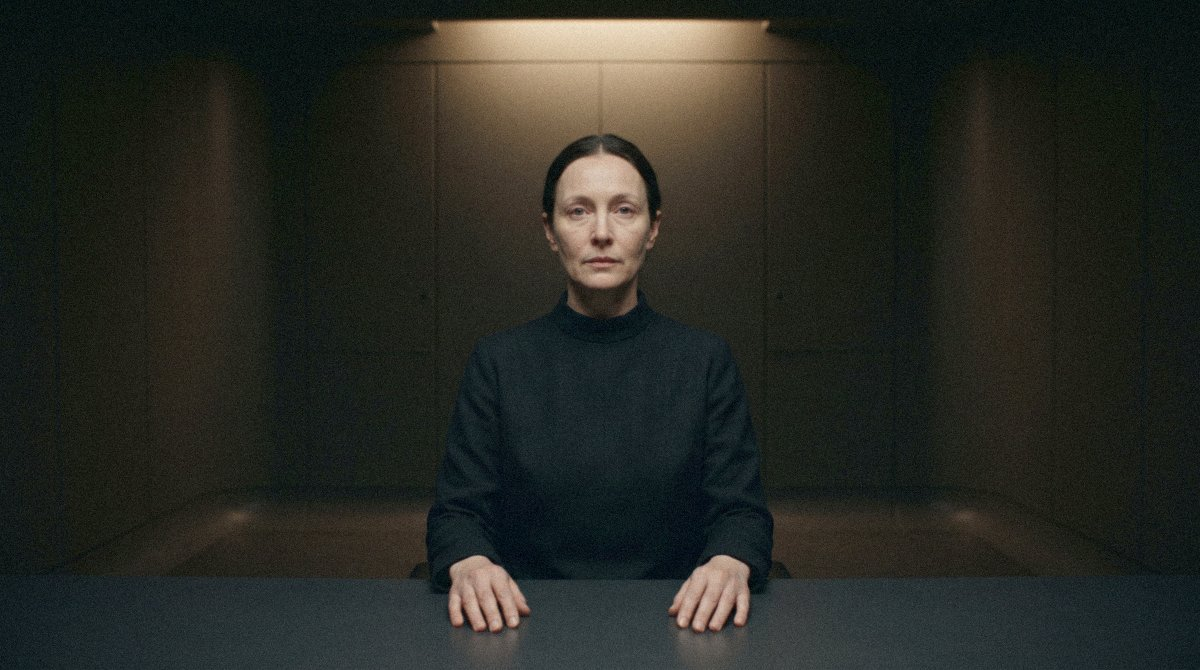
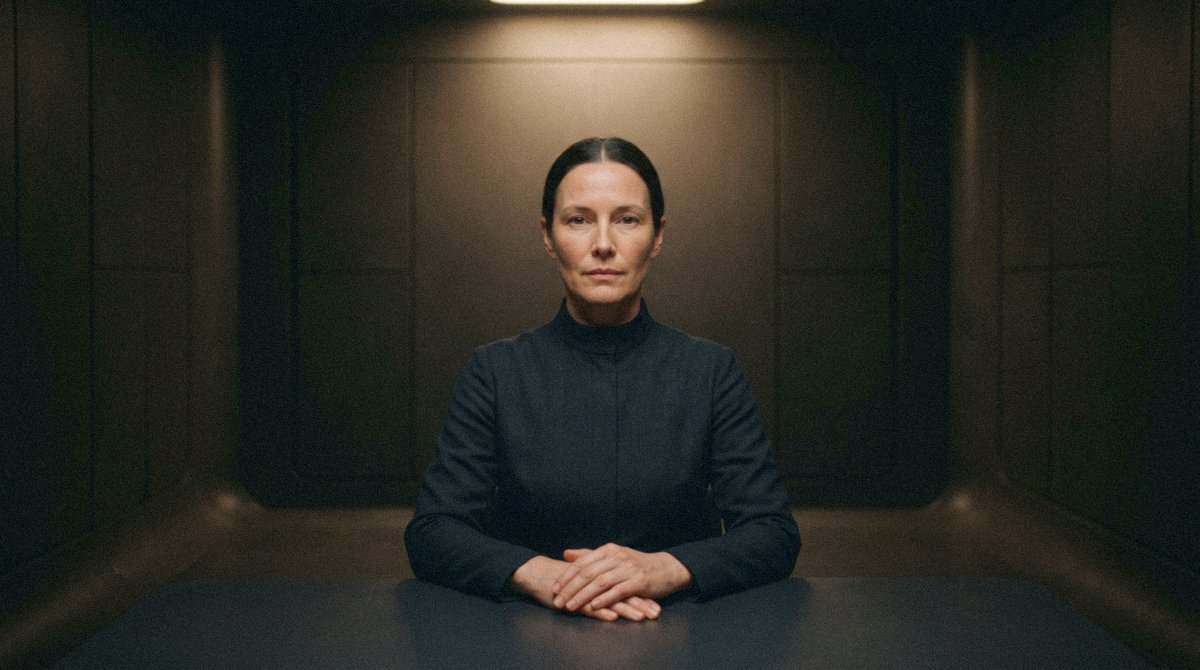
Re-make Rook-7, Syra and General Krast portraits
Rook-7 less childlike, Syra robust rather than frail, Krast of her own
century rather than the 1940s. Dermot picked each variation, 13 Oct 2026.

diff --git a/story-bible/images.md b/story-bible/images.md
@@ -1710,8 +1710,9 @@ go in its bullet prose, never in the quote.)
   stillness and the unplaceable age, and both leaked monitors, lamps and
   cabling into the room — the room is now described as closed and inert, and
   the negative travels inside the prompt.)*
-  > Documentary photograph taken inside the world by a 29th-century camera, available light, 16:9 landscape: a Krenyi woman, a humanoid who at first glance reads as an entirely ordinary human and gives the eye nothing to point to — ordinary ears, ordinary eyes, ordinary skin, no prosthetics and no alien features of any kind. What is not human is the composure: she sits perfectly still in a dim survey analysis room, hands at rest on the table, posture exactly balanced, gaze direct into the viewer, an adult whose age is impossible to place, quietly beautiful without any glamour styling, pale, dark hair drawn plainly back, a plain high-necked garment of matte dark woven cloth with a closure with no visible fastening, no markings. The room around her is almost dark and everything in it is closed and inert — a bare worktable, walls of seamless dark composite meeting the floor in a rounded coving with everything stowed behind flush panels, deep shadow — lit by one soft warm pool of light from a concealed source above, no lamp or light fitting visible in frame, and she is visibly comfortable in the dark. Serene, enigmatic, slightly uncanny in stillness only; not a pointed-eared elf, not a grey alien, no glowing eyes, no unusual skin colour. No readable text, lettering, numerals, signage, labels, branding or written characters of any script anywhere in frame; no screens, monitors, displays, tablets, consoles or indicator lights of any kind, powered or dark; no cables; no holograms or projected light; no wristwatch or jewellery; no hard-shelled cases, flight cases, road cases, equipment cases or crates; no knitted jumper, sweater or sweatshirt; no weapons; no corporate headshot posing. Photographed, not rendered: real skin with pores, fine lines and the slight unevenness of a living face, cloth with a real weave and creases; high-ISO grain heavier in the shadows, a fast lens near wide open with shallow depth of field and slight softness toward the corners, a touch under-exposed, muted natural colour. Render negatives: 3D render, CGI, octane render, video-game render, animated film still, science-fiction film set, plastic sheen, airbrushed, over-smooth surfaces, glossy concept art, waxy skin. Landscape orientation.
+  > Documentary photograph taken inside the world by a 29th-century camera, available light, 16:9 landscape: a Krenyi woman, a humanoid who at first glance reads as an entirely ordinary human and gives the eye nothing to point to — ordinary ears, ordinary eyes, ordinary skin, no prosthetics and no alien features of any kind. What is not human is the composure: she sits perfectly still in a dim survey analysis room, hands at rest on the table, posture exactly balanced, gaze direct into the viewer, an adult whose age is impossible to place, healthy and physically robust, with good colour in her skin and a clear, settled, unlined face that is neither young nor old, square level shoulders and a strong straight back, quietly beautiful without any glamour styling, her expression composed and wholly unreadable with nothing sad, tired or cold in it, pale, dark hair drawn plainly back, a plain well-fitted high-necked garment of matte dark woven cloth with a closure with no visible fastening, no markings. The room around her is almost dark and everything in it is closed and inert — a bare worktable, walls of seamless dark composite meeting the floor in a rounded coving with everything stowed behind flush panels, deep shadow — lit by one soft warm pool of light from a concealed source above, no lamp or light fitting visible in frame, and she is visibly comfortable in the dark. Serene, enigmatic, slightly uncanny in stillness only; not a pointed-eared elf, not a grey alien, no glowing eyes, no unusual skin colour. No readable text, lettering, numerals, signage, labels, branding or written characters of any script anywhere in frame; no screens, monitors, displays, tablets, consoles or indicator lights of any kind, powered or dark; no cables; no holograms or projected light; no wristwatch or jewellery; no hard-shelled cases, flight cases, road cases, equipment cases or crates; no knitted jumper, sweater or sweatshirt; no weapons; no corporate headshot posing; not gaunt, no hollow cheeks, no dark circles or shadows under the eyes, no visible fatigue or illness, no deep lines on the forehead or neck, no thin wrists, no oversized or loose garment, no sad, grieving, melancholy or worried expression, no raised inner brows. Photographed, not rendered: real skin with pores, fine lines and the slight unevenness of a living face, cloth with a real weave and creases; high-ISO grain heavier in the shadows, a fast lens near wide open with shallow depth of field and slight softness toward the corners, a touch under-exposed, muted natural colour. Render negatives: 3D render, CGI, octane render, video-game render, animated film still, science-fiction film set, plastic sheen, airbrushed, over-smooth surfaces, glossy concept art, waxy skin. Landscape orientation.
   - *(Revised 13 October 2026, century re-check of 13 October: the filed frame still read as our century. The *closed instrument cases* drew as present-day road cases and her clothing as a jumper. The cases are withdrawn (the room stows everything behind flush panels), her clothing is described in `civilian-dress.md`'s vocabulary, and the prompt now opens as a documentary photograph with render negatives. The stillness, the unplaceable age, the direct gaze and the trope guard are unchanged.)*
+  - *(Revised again 13 October 2026 at Dermot's question "Syra too frail for a Kyreni?": the frame read as frail. It showed hollow cheeks, shadows under the eyes, a lined forehead and neck, raised inner brows and narrow shoulders in a loose garment, so it fixed her age at about fifty and gave a human a sorrow to read. The lore says the Krenyi are robust, rarely sick and quick to heal (`src/lore/krenyi.md`). The prompt now asks for a healthy, settled, unlined face of no placeable age, a strong frame in a fitted garment and an expression with nothing in it to read, and it negates the gaunt and tired features by name. The room, light, pose and stillness are unchanged. Revised on Opus under his ruling the same day that only the most difficult prompts go to Fable.)*
 
 - **`brother-fintan.jpg`** — retired Chief on the boundary-safety track,
   now the beekeeper of Cnoc na mBeach. The one non-SF frame of the four,
@@ -4644,7 +4645,10 @@ the filed `image_alt`, under the house portrait rules: a person who does not
 exist, modest, at work, attention off-frame.
 
 - **`rook-7.jpg`** — *a bipedal robot on an older civilian chassis*, its sensor arrays non-standard and of unconfirmed origin; Field Analyst, Threshold Station Constabulary. Added 11 October 2026 at Dermot's "Made with care": the filed image (a scuffed grey robot with mismatched modules bolted on, at a cluttered desk) had no prompt of record.
-  > Documentary photograph taken inside the world by a 29th-century camera, available light: a bipedal analytical robot seated at a clear desk in the quiet, well-kept constabulary office of a shore station, upper body, attention on a single sheet of plain paper before it and not on the camera. An older civilian design, its body a smooth pale grey composite shell in considered proportions, plainly a machine with no human face. Its head carries sensor arrays that are visibly of a different and newer make from the chassis, neatly fitted and deliberate, recessed lenses behind machined rings, so the difference is a fact and not damage. Made with care: a well-designed object someone was proud to make, every joint neatly shrouded, kept immaculate. The office is plain and clean, a smooth painted wall in a soft warm tone, daylight from one side. Photographed, not rendered: high-ISO grain, a real lens with shallow depth of field, a touch under-exposed, natural colour. Negative: readable text, lettering, numerals, labels or written characters of any script anywhere in frame; screens, monitors, consoles, dials, gauges, indicator lights, holograms, cables; visible lamp or light fitting; clutter, grime, rust, scuffs, bolted-on mismatched parts, exposed wiring; crash-test dummy, shop mannequin, toy robot, industrial arm, human face; 3D render, CGI, video-game render. 16:9 landscape.
+  > Documentary photograph taken inside the world by a 29th-century camera, available light: a bipedal analytical robot standing upright beside a clear desk in the quiet, well-kept constabulary office of a shore station, upper body and torso, one hand resting flat on a single sheet of plain paper on the desk, its head turned down to the page and not to the camera. An older civilian design built to adult working proportions: broad, square shoulders, a deep chest, a thick neck, heavy capable forearms and large hands, the build of a working instrument rather than a figure. Its body is a smooth pale grey composite shell, plainly a machine. The face is a plain flat sensor faceplate, a smooth panel with no nose, no lips, no eyes and no cheeks, nothing that reads as a human or a child's face. Its head carries sensor arrays that are visibly of a different and newer make from the chassis, neatly fitted and deliberate, recessed lenses behind machined rings, so the difference is a fact and not damage. Made with care: a well-designed object someone was proud to make, every joint neatly shrouded, kept immaculate. The office is plain and clean, a smooth painted wall in a soft warm tone, daylight from one side. Photographed, not rendered: high-ISO grain, a real lens with shallow depth of field, a touch under-exposed, natural colour. Negative: readable text, lettering, numerals, labels or written characters of any script anywhere in frame; screens, monitors, consoles, dials, gauges, indicator lights, holograms, cables; visible lamp or light fitting; clutter, grime, rust, scuffs, bolted-on mismatched parts, exposed wiring; crash-test dummy, shop mannequin, toy robot, industrial arm, human face, doll face, youthful face, large eyes, eyelids, nose, lips, child proportions, slender neck, narrow shoulders, hunched or stooped posture, seated, headphones; 3D render, CGI, video-game render. 16:9 landscape.
+  - *(Revised 13 October 2026 at Dermot's question "Rook 7 too childlike?": the filed frame gave it a mannequin's youthful face, narrow shoulders and a slender neck, bent over the page like a pupil, and seated, though its page says it does not sit down without a reason. It now stands, with adult working proportions and a plain sensor faceplate; doll, youthful and child features are negated by name. The chassis, the newer sensor arrays and the kept office are unchanged. Revised on Opus under his ruling the same day that only the most difficult prompts go to Fable.)*
+- **`maren-solveig-krast.jpg`**: General, Military Space Command, Solar Command, Mars. Historical, born 2665 and died 2720 UCSD, so an official portrait shows her in her fifties at most. Added 13 October 2026 at Dermot's question "Does Gen. Krast look too dated or old-fashioned?". The filed frame had no prompt of record, and it read as a hand-tinted print from our 1940s: a cream card border, a US-style ribbon rack, a qualification badge, collar stars, a bentwood chair and a mottled studio backdrop. It was portrait-shaped for a 16:9 slot, and she looked about seventy. The MSC's display culture (braid and star-count, `uniforms-and-insignia.md`) is canon, so rank is shown, but in a design of her own century, as one plain silver mark rather than our stars and ribbons. The austere high slate collar, the stillness and the folded hands are kept from the filed frame.
+  > Official archival portrait taken inside the world by a 28th-century service photographer, 16:9 landscape, upper body: a human woman in her early fifties, a general of the Military Space Command, seated very upright at a plain dark table with her hands folded on it, looking straight into the lens, stern, contained and wholly certain. Grey hair drawn back severely, a strong weathered face with the lines of a hard-working fifty-year-old and no more, no make-up. An austere high-collared uniform tunic of fine matte slate-grey cloth with a closure with no visible fastening, cut close and exact; her rank shown only by a narrow band of dull silver braid at the collar edge and a single small plain geometric silver mark on each shoulder, flush with the cloth, no stars, no ribbon bars, no medals, no badges. Behind her, a plain, even, dark grey-blue wall of a seamless material, softly lit, nothing on it. A single soft key light from one side, the formal clarity of an institutional record. Archival in the sense of a record kept from her own century: a little faded, the colour slightly cool and low in saturation, fine grain, no age damage. Photographed, not rendered: real skin with pores and lines, cloth with a real weave; a real lens, shallow depth of field. Negative: 20th-century or 21st-century military uniform, Second World War, US Army, Soviet, peaked cap, ribbon rack, campaign ribbons, medals, parachutist or qualification badges, collar stars, shoulder stars, epaulettes, gold braid, brass buttons, wedding ring, jewellery; hand-tinted or colourised photograph, sepia, cream card mount, paper border, vignette, scratches, dust, torn edges; wooden chair, bentwood chair, mottled painted studio backdrop; flag, desk lamp, telephone, papers; readable text, lettering, numerals, name tapes, labels or written characters of any script anywhere in frame; screens, monitors, holograms; elderly, frail, over seventy; glamour lighting, corporate headshot; 3D render, CGI, airbrushed, waxy skin. Landscape orientation.
 - **`sorcha.jpg`** — Sorcha Lichata, itinerant healer of boundary-proximate settlements; *she arrives after the physicians have gone*. The page's own furniture: the two-compartment satchel, the patient, the work that costs her. The `image_alt` gives the long silver-fair hair, the homespun wrapped clothes and the kneeling posture; the page gives no age and no origin, so neither is in the prompt.
   > Candid documentary photograph, 16:9 landscape, the face in the upper third of the frame, attention off-frame, at work, never posed to camera, dressed for the work and the place, modest, nothing that invites the viewer. A woman, an itinerant healer, upper body, kneeling at the bedside of a patient in a small plain stone room in a settlement at the edge of the settled worlds, at night, one hand resting flat on the heavy wool blanket over the patient, who is only a shape under the blankets at the lower edge of frame with no face shown, her eyes on the patient and not on the viewer. Long silver-fair hair tied back plainly, a tired, weathered face with real lines and no make-up; the face of someone who has worked past her own reserve and is still listening. Plain homespun wrapped working clothes of undyed wool, worn at the cuffs, a worn leather satchel at her hip with its flap closed. Light from a single small candle out of frame to one side, warm and low, the stone walls in shadow. Quiet, attentive, unsentimental. Muted umber, undyed wool, warm low light. Negative: readable text, lettering, numerals, signage, labels, branding or written characters of any script anywhere in frame; holograms, projected light, glowing displays, screens, monitors, consoles, dials, gauges, meters, knobs, toggles, tube screens, exposed cables, tablets, laptops; visible lamp, light fitting or bulb; flat studio backdrop, gradient background, glamour lighting, corporate headshot, posed smiling to camera; weapons. Beauty lighting, flawless skin, youthful model, low neckline, fashion styling, fantasy costume, sorceress, glowing hands, magic effects, halo, mystic pose. Photographed, not rendered: real skin with pores, fine lines and the slight unevenness of a living face, stray hairs, cloth with a real weave, pilling and creases, the satchel leather scuffed and darkened by handling; high-ISO grain heavier in the shadows, a fast lens near wide open with shallow depth of field and slight softness toward the corners, a touch under-exposed, muted natural colour. Render negatives: 3D render, CGI, octane render, video-game render, animated film still, clay or plasticine sculpture, plastic sheen, airbrushed, over-smooth surfaces, glossy concept art, waxy skin, glamour retouching.
   - *(Revised 10 October 2026, photorealism triage: the filed frame read as a glamour portrait, airbrushed, and is portrait-shaped in a 16:9 slot. No earlier prompt is on record, so this one is new, written to the page and the filed alt; the candle stays, out of frame, as the room's only light.)*

diff --git a/CHANGELOG.md b/CHANGELOG.md
@@ -6,6 +6,7 @@ The format loosely follows [Keep a Changelog](https://keepachangelog.com/en/1.1.
 
 ## [Unreleased]
 
+- **Rook-7, Syra and General Krast re-made** (2026-10-13, Dermot's picks). Rook-7 had read as childlike. It now stands at its desk with adult working proportions and a plain sensor faceplate in place of a mannequin's face. Syra had read as frail, which the Krenyi are not. She now has a healthy, settled face of no placeable age, a strong frame and nothing in her expression to read. Krast's portrait had read as a hand-tinted 1940s print, with US-style ribbons and stars. It is now an austere official portrait from her own century, in her fifties, with small silver rank marks. The prompts are in `story-bible/images.md` (Krast's is the first on record), and the three `image_alt`s are rewritten.
 - **Four portraits corrected, and the dress lines approved** (2026-10-13). Rhian Gwynne now looks at her work rather than the camera; Sorcha Shepherd's and Galahad Thorne's survey instruments are flat sealed wedges on stone instead of domes on tripods that read as present-day GPS receivers; Idris Bryneth's drone flies clear of the fence. The proposed dress lines in `story-bible/civilian-dress.md` are approved, each place's sign of the century in addition to the cloth's own detail.
 
 - **Dress by place, and a wardrobe extractor** (`story-bible/civilian-dress.md`, `scripts/extract-wardrobe.js`, 2026-10-13). The civilian dress note gains a dress line for eighteen settings, each line marked derived from its place's page or proposed; a local tool builds the data for a private reference artefact from that section and the character portraits, regenerated at each release with the other three.

diff --git a/src/characters/maren-solveig-krast.md b/src/characters/maren-solveig-krast.md
@@ -11,7 +11,7 @@ aliases:
 tags: [msc, mars, sol-system, solar-command, history, human]
 description: "The Military Space Command general whose defence of technocratic rule at the Outer Stations Consolidation Hearing became the institution's most-quoted line — taught inside the MSC as doctrine, and repeated outside it as a warning."
 image: "maren-solveig-krast.jpg"
-image_alt: "An archival official portrait of a stern grey-haired general in an austere high-collared slate uniform, seated with hands folded at a table, against a plain dark backdrop"
+image_alt: "An official portrait of a grey-haired general in her fifties, in an austere high-collared slate uniform with small silver rank marks at the collar and shoulders, seated upright at a plain dark table with hands folded, looking straight at the camera against an even dark blue-grey wall"
 ---
 
 General Krast gave the Military Space Command its most durable line in a single unscripted answer, and died the following year, which spared her the discovery every other officer who repeated it eventually made: that a line durable enough to survive an institution's collapse does not stay owned by the person who said it.

diff --git a/src/characters/syra.md b/src/characters/syra.md
@@ -10,7 +10,7 @@ aliases:
 tags: [krenyi, boundary, threshold-station, season-1]
 description: "A Krenyi boundary analyst, approximately 150 years old, assigned to the Threshold Station survey team."
 image: "syra.jpg"
-image_alt: "A pale woman with dark hair drawn back, in a plain black high-necked garment, seated perfectly still at a bare table in a nearly dark room of seamless panels, hands at rest and gaze level and direct, her age impossible to place"
+image_alt: "A pale woman with dark hair drawn back, in a plain fitted black high-necked garment, seated perfectly still at a bare table in a nearly dark room of seamless panels under one warm pool of light, hands folded, gaze level and direct, her face calm and unreadable and her age impossible to place"
 ---
 
 Syra is Krenyi — one of the Quiet-Built. She is approximately one hundred and fifty years old, which is not particularly old for her kind.

diff --git a/src/characters/rook-7.md b/src/characters/rook-7.md
@@ -10,7 +10,7 @@ aliases:
 tags: [robot, police-department, threshold-station, boundary, season-1]
 description: "A robot with non-standard sensor arrays and an investigative/analytical classification, assigned to the Threshold Station survey."
 image: "rook-7.jpg"
-image_alt: "Rook-7, a bipedal robot with a smooth pale grey shell and a round sensor array of a visibly different make set into the side of its head, seated at a clear glass desk in a quiet, sunlit office, its hands resting by a single sheet of paper."
+image_alt: "Rook-7, a bipedal robot with a broad pale grey composite shell and a plain flat faceplate, with a cluster of round sensor lenses of a different make fitted to the side of its head, standing at a desk in a quiet, sunlit office, one hand resting on a single sheet of paper"
 ---
 
 It logs continuously. That is the first thing to know about Rook-7.
